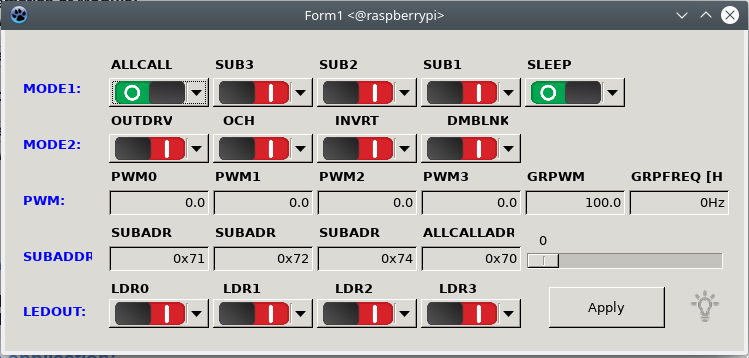
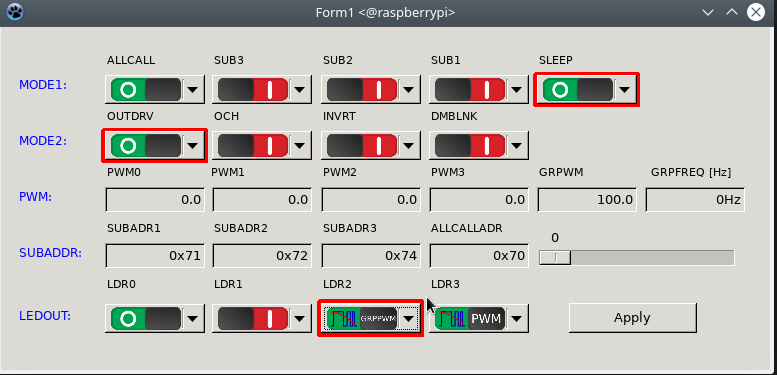
Append Doc for new write features

Changed region(s): [[0.0, 0.0, 1.0, 1.0], [0.737, 0.7989, 0.9519, 0.9218]]

diff --git a/fpc/lazarus.md b/fpc/lazarus.md
@@ -1,6 +1,6 @@
 # Lazarus Installation #
 
-**Last update:** 21.03.2020
+**Last update:** 29.03.2020
 Author: Marian Minar
 
 **Insalled at Raspberry PI 3+:**
@@ -60,3 +60,48 @@ remote connection to raspberry:
 ssh -l pi -X <ip_address>
 lazarus-ide
 ```
+
+###Pre-requisited library for lazarus###
+compile Python-for-Lazarus libraries
+
+* was tailored and tested for python3 at raspberry 3+
+```console
+3.7.3 (default, Dec 20 2019, 18:57:59) 
+[GCC 8.3.0]
+```
+
+###How to compile Free Pascal code of project?###
+* copy sources to main directory
+
+```console
+pi@raspberrypi:~ $ cd ecomet_i2c_tools/
+pi@raspberrypi:~/ecomet_i2c_tools $ cp -rf fpc/pca9632/* ./
+pi@raspberrypi:~/ecomet_i2c_tools $ ls -l
+
+drwxr-xr-x 3 pi pi     4096 Mar 20 23:52 fpc
+-rw-r--r-- 1 pi pi      190 Dec 26 10:02 i2c_config.yaml
+drwxr-xr-x 5 pi pi     4096 Jan 13 07:55 i2c_pkg
+drwxr-xr-x 3 pi pi     4096 Mar 29 15:27 image
+drwxr-xr-x 3 pi pi     4096 Mar 20 22:09 lib
+-rwxr-xr-x 1 pi pi 27189544 Mar 29 14:11 pca_6532
+-rw-r--r-- 1 pi pi     1545 Mar 28 21:43 pca_6532_i2c_test.py
+-rw-r--r-- 1 pi pi     2323 Mar 29 15:27 pca_6532.lpi
+-rw-r--r-- 1 pi pi      397 Mar 29 15:27 pca_6532.lpr
+-rw-r--r-- 1 pi pi     9129 Mar 29 15:27 pca_6532.lps
+-rw-r--r-- 1 pi pi   139052 Mar 29 15:27 pca_6532.res
+-rw-r--r-- 1 pi pi    69063 Mar 29 15:27 pca_display.lfm
+-rw-r--r-- 1 pi pi    12225 Mar 29 15:27 pca_display.pas
+-rw-r--r-- 1 pi pi    11919 Mar 29 15:27 pca_pyth_util.pas
+-rw-r--r-- 1 pi pi     3514 Mar 29 15:27 pca_read.pas
+-rw-r--r-- 1 pi pi     1877 Mar 29 15:27 pca_regex.pas
+-rw-r--r-- 1 pi pi     7851 Mar 29 15:27 pca_write.pas
+-rw-r--r-- 1 pi pi     2118 Mar 29 15:27 proc_py.pas
+```
+
+* install Python-for-Lazarus library
+* open oproject & compile it.
+
+![ ](insert_project.png  "Open Project")
+
+
+[Python-for-Lazarus (Alexey-T clone)](https://github.com/mamin27/Python-for-Lazarus) 

diff --git a/i2c_pkg/pca9632_pkg/pca_9632_python_IIC.md b/i2c_pkg/pca9632_pkg/pca_9632_python_IIC.md
@@ -1,0 +1,49 @@
+# pca9632_IIC python3 module
+
+**Last modification:** 29.03.2020
+
+###List of python files:###
+
+**pca9632_constant.py**
+
+* list of pca9632 chip registers and their statuses
+
+**pca9632.py**
+
+* read_pca9632 - read all registers from chip
+* software_reset - make software reset of chip
+* ledout_clean - set all LEDRx to OFF status
+* PCA9362 - main chip class
+* PCA9632.read_register - read status of one register
+* PCA9632.write_register - write new value to chip register
+
+### How to call python sub? ###
+
+see **pca_6532_i2c_test.py **script
+
+initialization:
+```python
+pwm = pca9632.PCA9632()
+
+read all registers:
+```python
+reg_view = pca9632.read_pca9632();
+```
+
+write to register:
+```python
+ret = pwm.write_register ( register = *reg_name*, bits = [*bit1*,*bit2* ...])
+ret = pwm.write_register ( register = *reg_name*, bits = [{*bit_name1* : *bit_value1*}, ... ]
+```
+example:
+```
+ret = pwm.write_register( register = "MODE2", bits = ['INVRT_N'])
+
+ret = pwm.write_register( register = 'LEDOUT', bits = [{'LDR0' : 'ON' }, {'LDR1' : 'PWM_GRPPWM'}, {'LDR2' : 'OFF'}, {'LDR3' : 'PWM'}])
+```
+
+Register status value:
+
+INVERT - ON INVERT status
+INVERT_N - OFF INVERT status
+see pca9632_constat.py

diff --git a/fpc/pca6532/pca6532_IIC.md b/fpc/pca6532/pca6532_IIC.md
@@ -1,6 +1,6 @@
 # pca9632_IIC module
 
-**Last modification:** 21.03.2020
+**Last modification:** 29.03.2020
 
 **Schematics of Module:**
 *schematics in working process*
@@ -29,12 +29,19 @@ ecomet_i2c_tools/pca_6532
 **Features:**
 
 *  Read status of pca_6532 chip and show on concole
-*  Click at button (with values) changed to color to white. Then able to change value
+*  Click at Enumerated Buttons (as ALLCALL), choice from values for register (MODE1, MODE2, LEDOUT)
+*  Write to Register - Actually modified value visible by red rectangular (example SLEEP button) 
+*  Apply write changes for all actually selected attributes (buttons) - click at **APPLY** button
+*  Click at button (with values) changed to color to white. Then able to change value - !to be done!
+
+**    >>Sub Features: **
+
+* Register MODE1, MODE2 enumerate ON, OFF status
+* Register LEDOUT, enumerate ON, OFF, PWM, PWM_GRPPWM status
 
 **Limitations**
  
-* All Registers are correctly read after application run
-* Buttons are switchable but without effect
+* Register PWMx, SUBADDRx,GRPPWM, GRPFREQ only in read mode
 
 ![console](pca6532_console.png  "Console")
 
